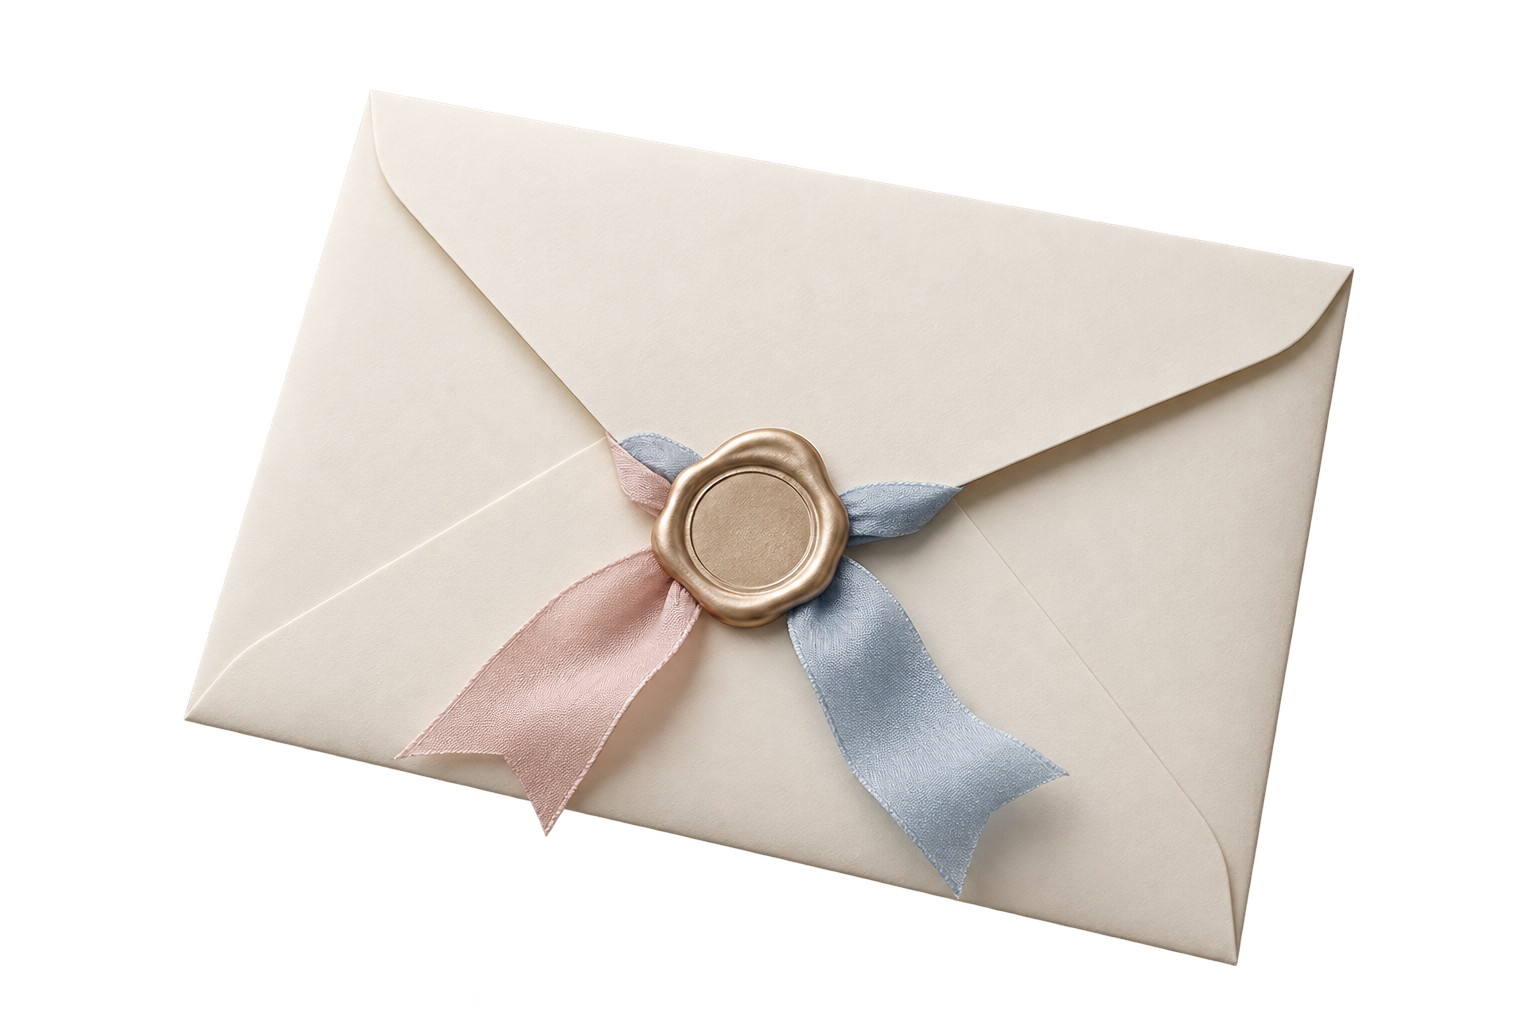
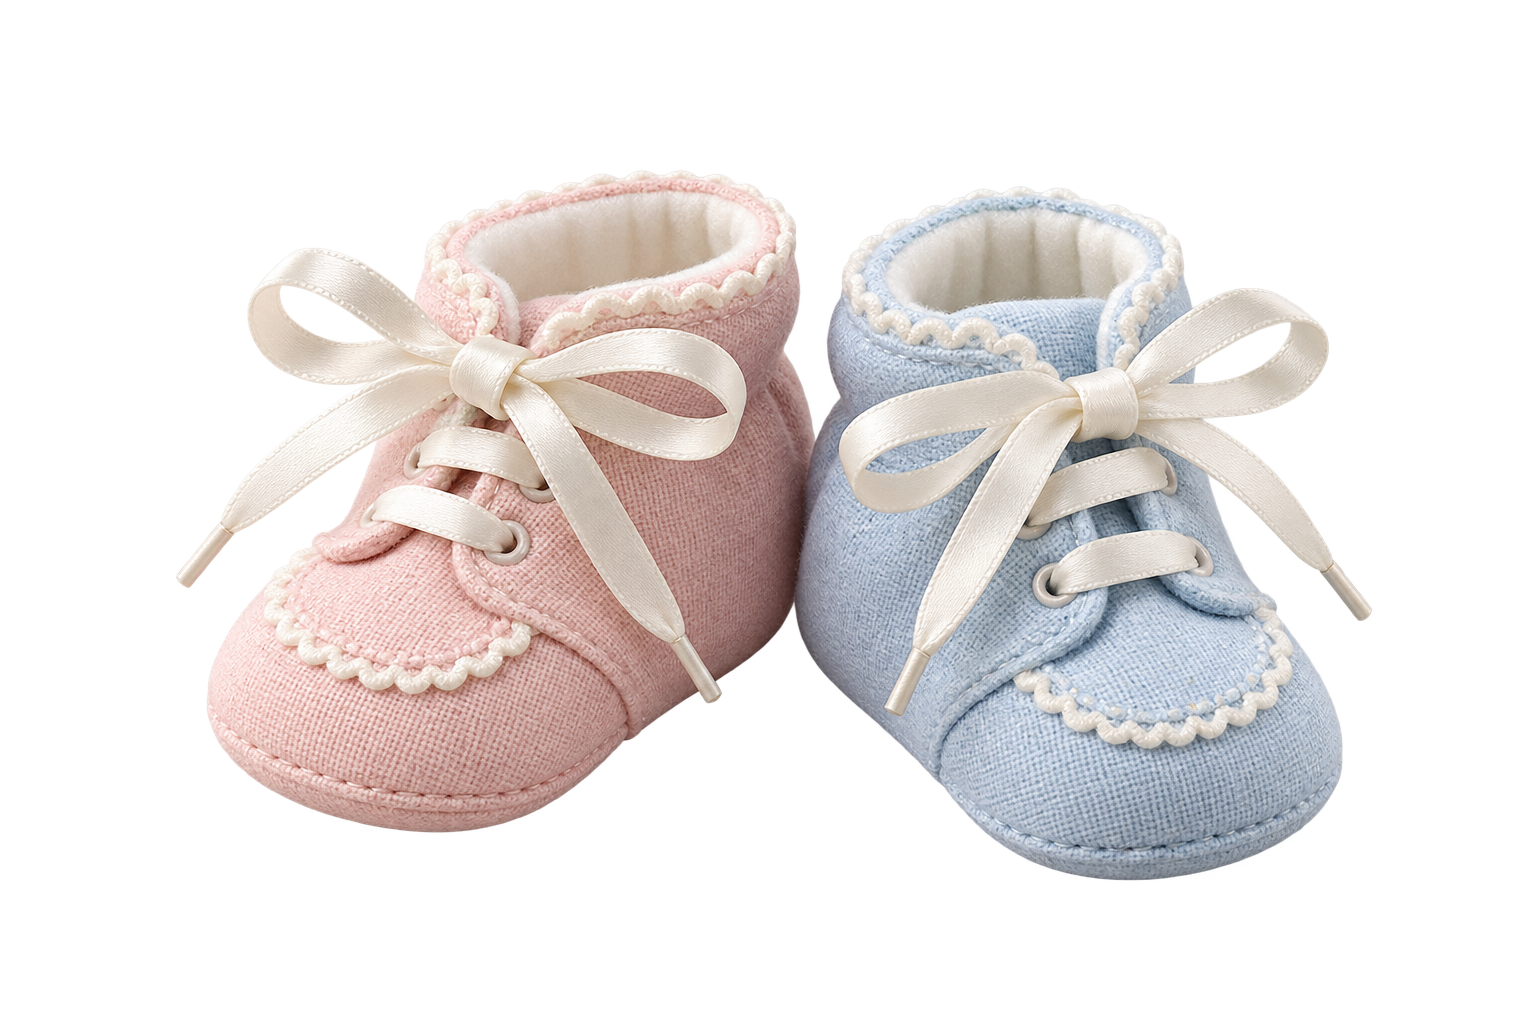
act 021

diff --git a/invitaciones/plantillas/baby-showers/revelacion/index.html b/invitaciones/plantillas/baby-showers/revelacion/index.html
@@ -943,9 +943,9 @@
 
     .scene:nth-child(5) .elemento {
 
-      --x: 87;
+      --x: 65;
 
-      --y: 22;
+      --y: 25;
 
       --tamano: 27
     }
@@ -1126,9 +1126,9 @@
 
       .scene:nth-child(5) .elemento {
 
-        --x: 88;
+        --x: 55;
 
-        --y: 20;
+        --y: 35;
 
         --tamano: 28
       }
